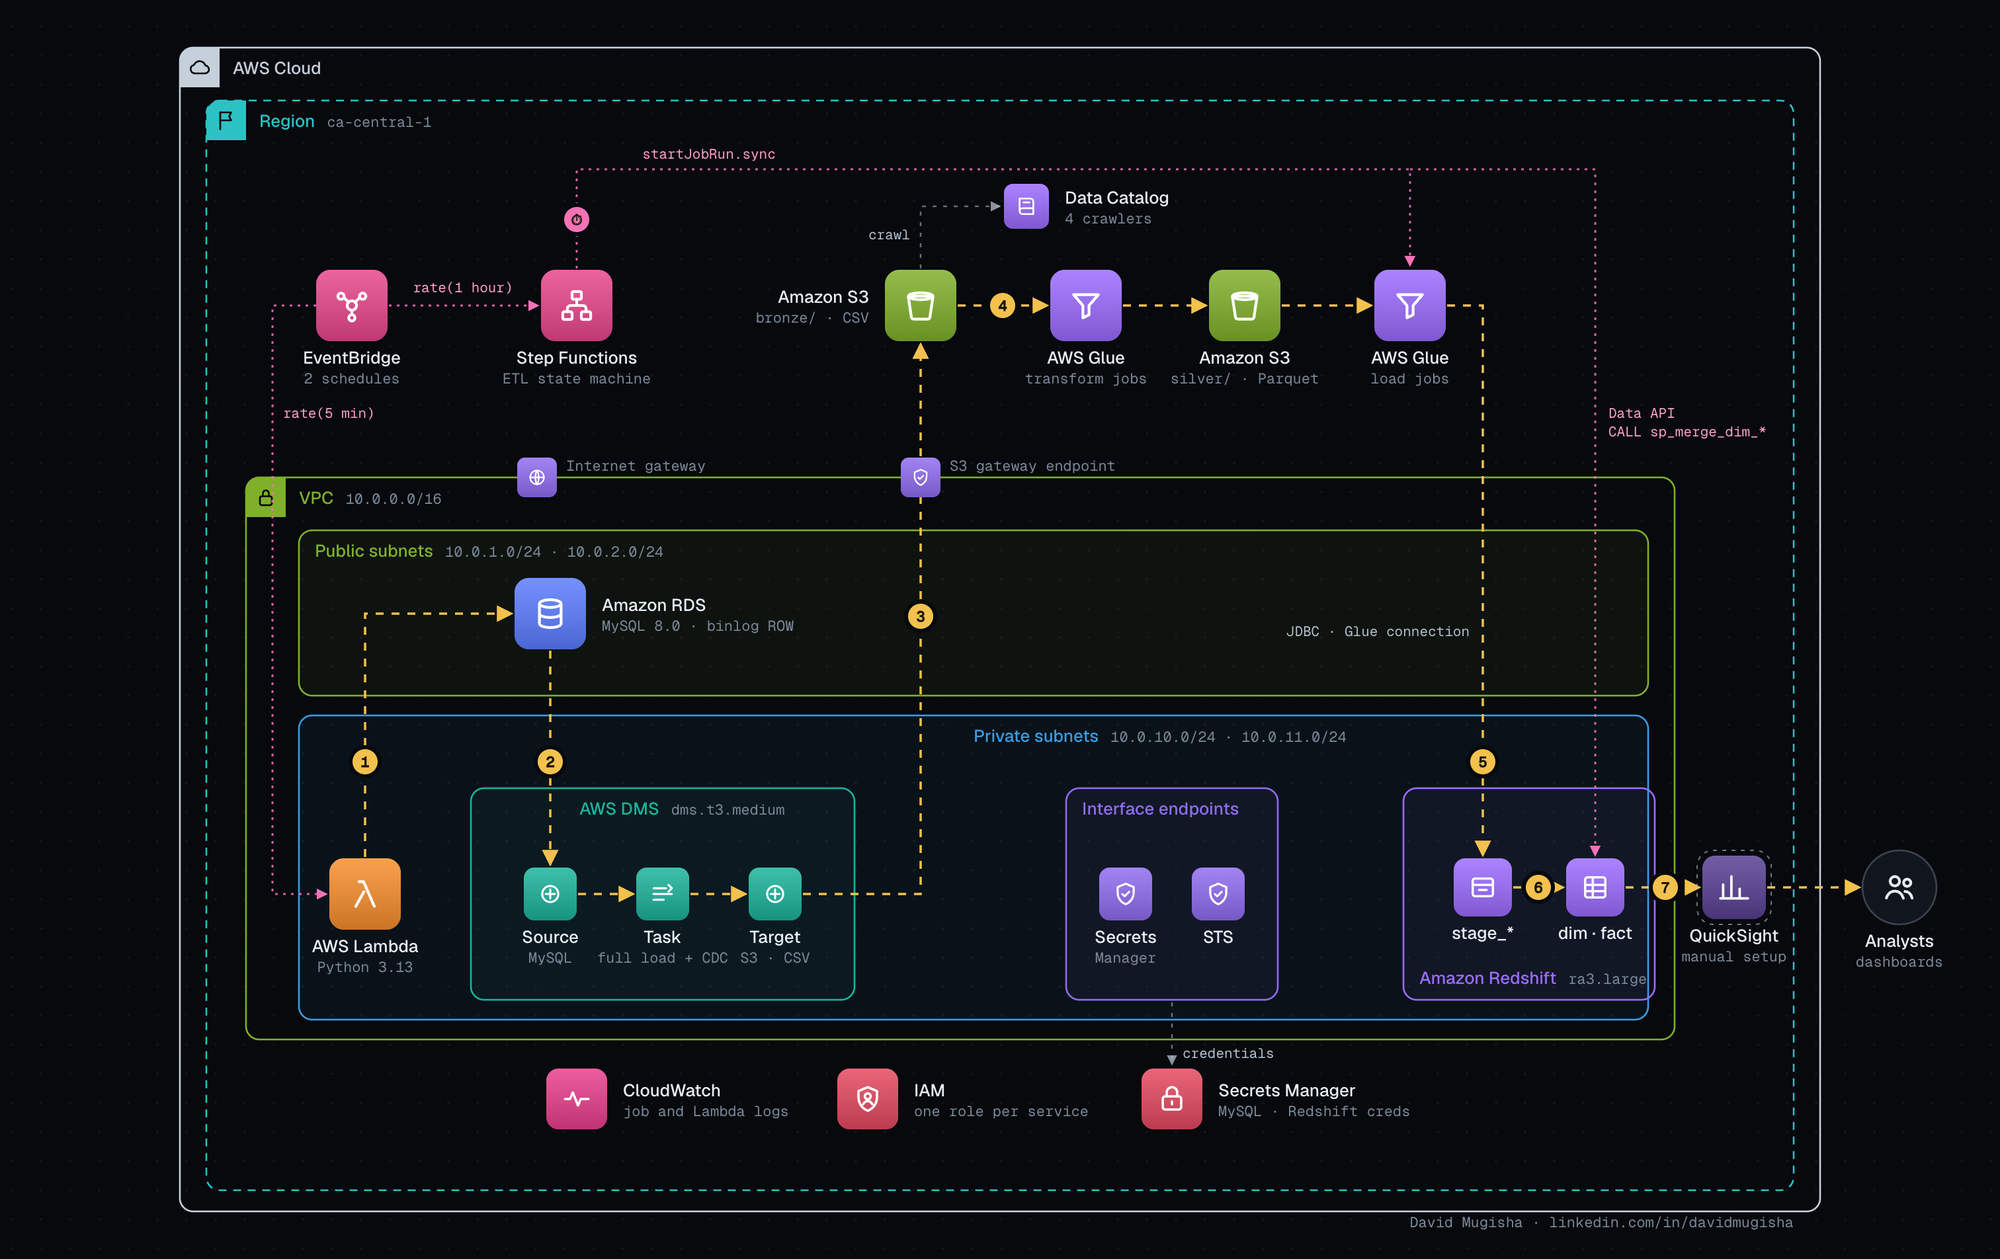
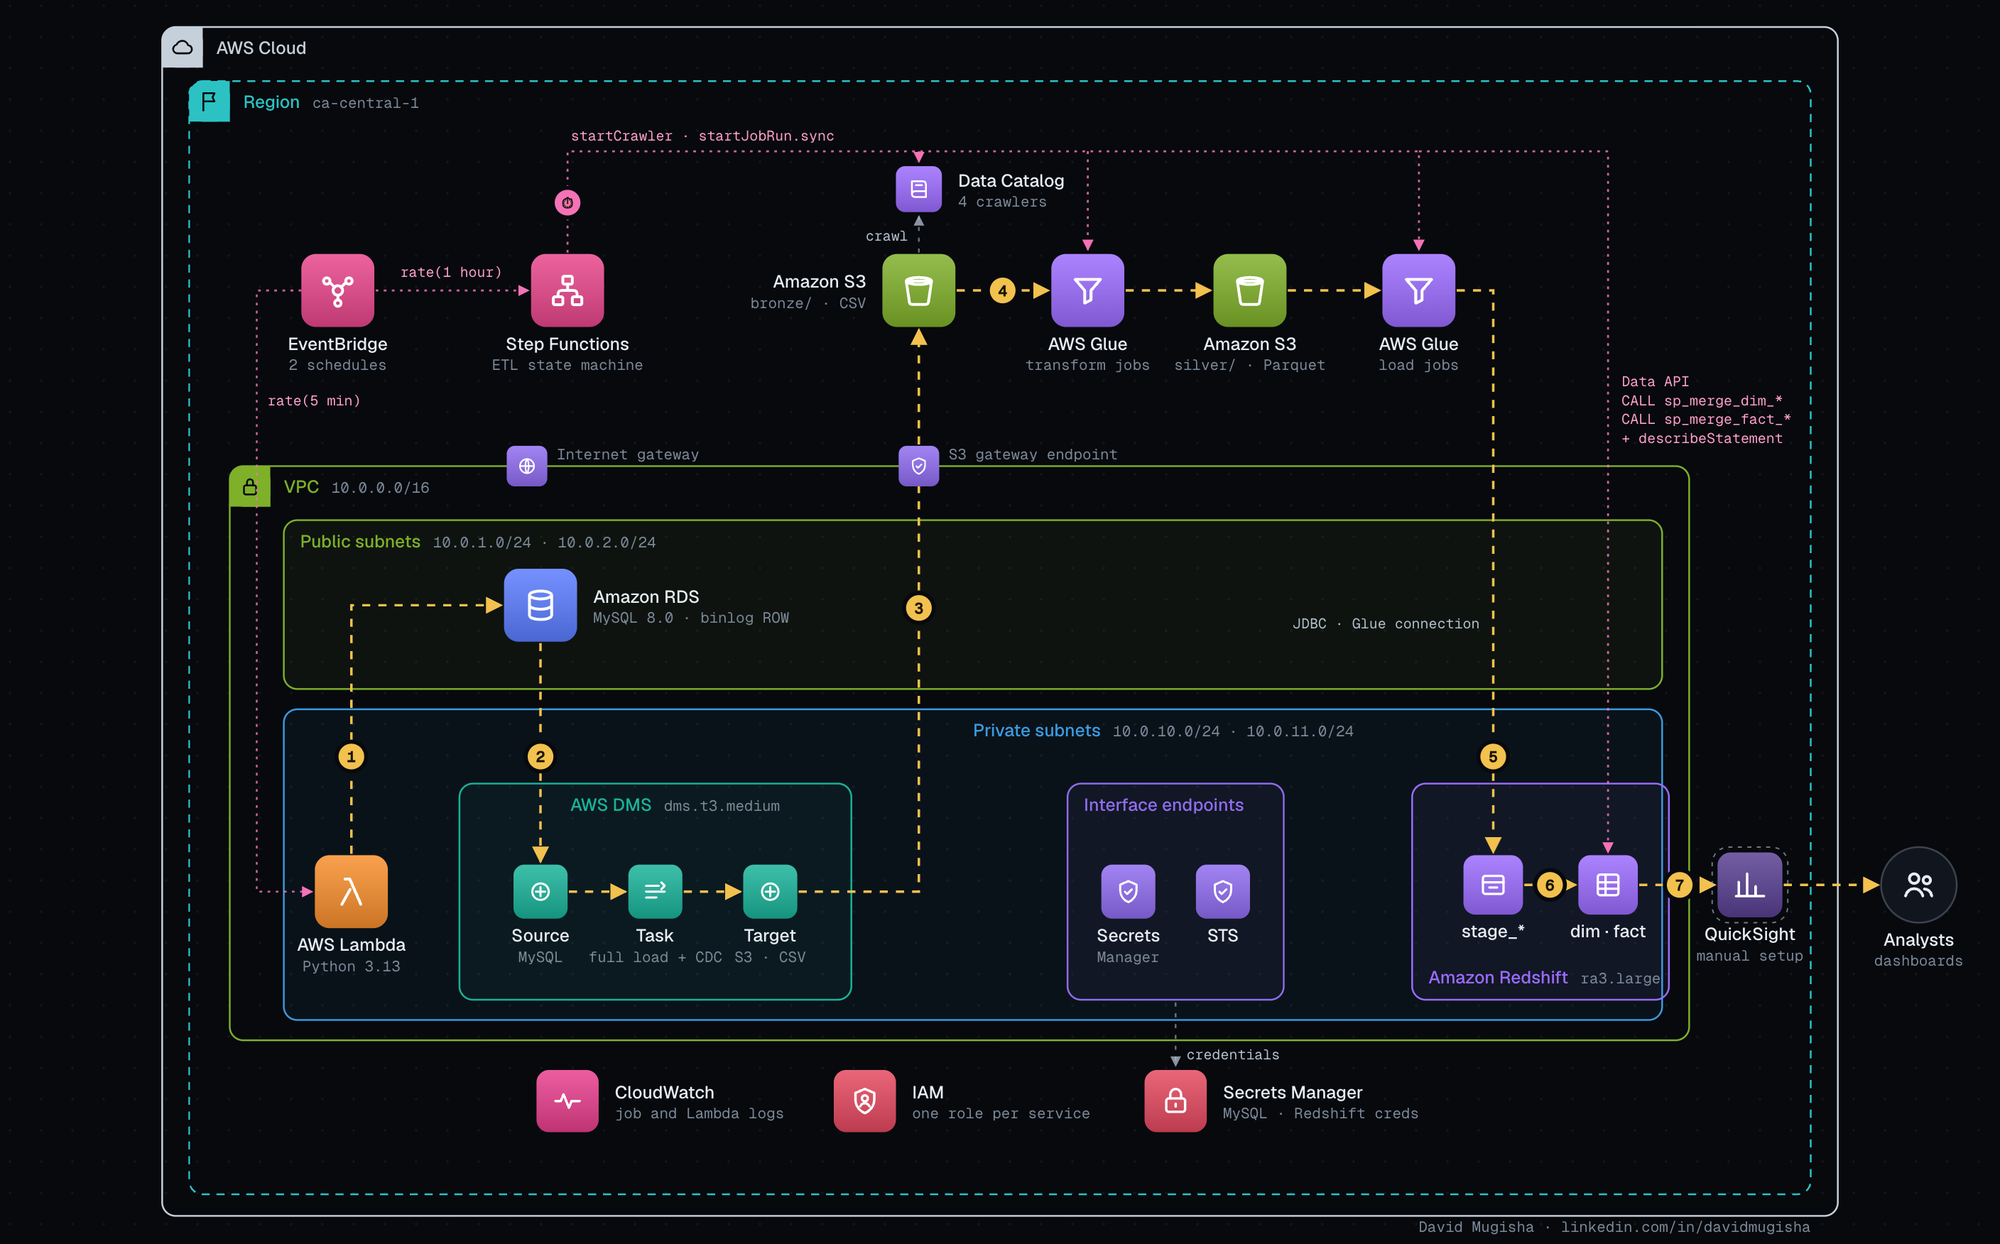
docs: show the crawl, transform and fact merge stages in the architecture visuals
The pipeline animation now runs crawlers and the transform jobs before
the loads, merges facts into a new sales.fact_* panel, and labels each
merge as awaited. The AWS diagram shows Step Functions starting the
crawlers and transform jobs and calling the fact procedures. GIF and
PNG renders are regenerated at 2x on a deterministic clock.

diff --git a/docs/architecture/pipeline-animation.html b/docs/architecture/pipeline-animation.html
@@ -222,6 +222,8 @@ svg.wires { position: absolute; inset: 0; width: 100%; height: 100%; pointer-eve
 .mini .r.empty span, .mini .r.empty span:last-child { color: var(--muted); text-align: left; }
 .mini .r.ent.solo { grid-template-columns: auto minmax(0, 1fr); }
 .mini .r.ent.solo span:last-child { color: var(--ink-2); text-align: left; }
+.facts .r b { font: 600 11px var(--font-mono); color: var(--muted); font-variant-numeric: tabular-nums; transition: color .3s; }
+.facts .r b.bump { color: var(--gold); animation: bump .5s var(--ease-out); }
 .mini.hot { transform: translateY(-1px); border-color: color-mix(in oklab, var(--hue, #fff) 70%, #fff); box-shadow: 0 12px 24px -14px color-mix(in oklab, var(--hue, #fff) 80%, transparent); }
 
 /* Bronze file list and gold dimension rows are live */
@@ -317,7 +319,7 @@ svg.wires { position: absolute; inset: 0; width: 100%; height: 100%; pointer-eve
 
 @media (prefers-reduced-motion: reduce) {
   .src, .mini, .cons, .connector .knob, .stage, .app-card, button, .task, .st, .par, .files .r, .dims .r { transition: none; }
-  .counter b.bump, .dims .r.fresh, .task.run::before { animation: none; }
+  .counter b.bump, .facts .r b.bump, .dims .r.fresh, .task.run::before { animation: none; }
 }
 </style>
 
@@ -439,6 +441,11 @@ svg.wires { position: absolute; inset: 0; width: 100%; height: 100%; pointer-eve
             <div id="dim-rows"></div>
           </div>
           <div class="counter"><span>versions <b id="n-ver">0</b></span><span>active <b id="n-act">0</b></span></div>
+          <div class="mini facts" id="gold-fact">
+            <div class="t">sales.fact_* <i>upsert</i></div>
+            <div class="r ent"><i style="background:var(--e-orders)"></i><span>fact_orders</span><b id="n-ford">0</b></div>
+            <div class="r ent"><i style="background:var(--e-details)"></i><span>fact_order_details</span><b id="n-fdet">0</b></div>
+          </div>
           <div class="foot">Analytics ready</div>
         </article>
 
@@ -458,21 +465,25 @@ svg.wires { position: absolute; inset: 0; width: 100%; height: 100%; pointer-eve
         <div class="flow">
           <div class="st" id="o-eb"><small>EventBridge</small><b>rate(1 hour)</b></div>
           <i class="arrow"></i>
+          <div class="st" id="o-crawl"><small>Run_Crawlers</small><b>4 crawlers</b></div>
+          <i class="arrow"></i>
+          <div class="st" id="o-xform"><small>Parallel_Transform</small><b>4 Glue jobs</b></div>
+          <i class="arrow"></i>
           <div class="par" id="o-dims">
             <small>Parallel_Load_Dimensions</small>
-            <div class="lane"><span class="task" id="o-cust-load">Glue load <span class="k">customer</span></span><span class="sep">→</span><span class="task" id="o-cust-sp">SP_Merge_Customer</span></div>
-            <div class="lane"><span class="task" id="o-prod-load">Glue load <span class="k">product</span></span><span class="sep">→</span><span class="task" id="o-prod-sp">SP_Merge_Product</span></div>
+            <div class="lane"><span class="task" id="o-cust-load">Load <span class="k">customer</span></span><span class="sep">→</span><span class="task" id="o-cust-sp">Merge</span></div>
+            <div class="lane"><span class="task" id="o-prod-load">Load <span class="k">product</span></span><span class="sep">→</span><span class="task" id="o-prod-sp">Merge</span></div>
           </div>
           <i class="arrow"></i>
           <div class="par" id="o-facts">
             <small>Parallel_Load_Facts</small>
-            <div class="lane"><span class="task" id="o-ord">Glue_Load_Orders</span></div>
-            <div class="lane"><span class="task" id="o-det">Glue_Load_OrderDetails</span></div>
+            <div class="lane"><span class="task" id="o-ord">Load <span class="k">orders</span></span><span class="sep">→</span><span class="task" id="o-ord-sp">Merge</span></div>
+            <div class="lane"><span class="task" id="o-det">Load <span class="k">details</span></span><span class="sep">→</span><span class="task" id="o-det-sp">Merge</span></div>
           </div>
           <i class="arrow"></i>
           <div class="st" id="o-ok"><small>Step Functions</small><b>Succeed</b></div>
         </div>
-        <p class="note">Dimensions merge first so facts always find their customer and product.</p>
+        <p class="note">Crawlers refresh the catalog, then dimensions merge first so facts always find their customer and product. Each merge is awaited.</p>
       </section>
 
       <a class="credit" href="https://www.linkedin.com/in/davidmugisha/" target="_blank" rel="noopener">David Mugisha · linkedin.com/in/davidmugisha</a>
@@ -523,6 +534,11 @@ svg.wires { position: absolute; inset: 0; width: 100%; height: 100%; pointer-eve
     return `M${a.x},${a.y} C${a.x + dx},${a.y} ${b.x - dx},${b.y} ${b.x},${b.y}`;
   };
   const line = (a, b) => `M${a.x},${a.y} L${b.x},${b.y}`;
+  // Down the left edge of the gold column, past the dimension panel, into the fact panel
+  const elbow = (a, b, out = 7, r = 5) => {
+    const x = Math.min(a.x, b.x) - out;
+    return `M${a.x},${a.y} L${x + r},${a.y} Q${x},${a.y} ${x},${a.y + r} L${x},${b.y - r} Q${x},${b.y} ${x + r},${b.y} L${b.x},${b.y}`;
+  };
 
   // Wires. The left half streams all day; the right half only moves on the hourly run (dashed).
   const DEFS = {
@@ -540,19 +556,20 @@ svg.wires { position: absolute; inset: 0; width: 100%; height: 100%; pointer-eve
     "silver-load":  () => curve(pt("silver-schema", "right"), knob("glue-l", "left")),
     "load-stage":   () => curve(knob("glue-l", "right"), pt("gold-stage", "left")),
     "stage-dim":    () => line(pt("gold-stage", "bottom"), pt("gold-dim", "top")),
+    "stage-fact":   () => elbow(pt("gold-stage", "left", 0.82), pt("gold-fact", "left")),
     "dim-cons0":    () => curve(pt("gold-dim", "right", 0.3), pt("cons-0", "left")),
     "dim-cons1":    () => curve(pt("gold-dim", "right", 0.5), pt("cons-1", "left")),
     "dim-cons2":    () => curve(pt("gold-dim", "right", 0.7), pt("cons-2", "left")),
   };
-  const BATCH = new Set(["bronze-glue", "glue-silver", "silver-load", "load-stage", "stage-dim"]);
+  const BATCH = new Set(["bronze-glue", "glue-silver", "silver-load", "load-stage", "stage-dim", "stage-fact"]);
   const PULSE = {
     "app-customer": "src-customer", "app-product": "src-product", "app-orders": "src-orders", "app-details": "src-details",
     "customer-dms": "dms", "product-dms": "dms", "orders-dms": "dms", "details-dms": "dms",
     "dms-bronze": "bronze-files", "bronze-glue": "glue-t", "glue-silver": "silver-schema",
-    "silver-load": "glue-l", "load-stage": "gold-stage", "stage-dim": "gold-dim",
+    "silver-load": "glue-l", "load-stage": "gold-stage", "stage-dim": "gold-dim", "stage-fact": "gold-fact",
     "dim-cons0": "cons-0", "dim-cons1": "cons-1", "dim-cons2": "cons-2",
   };
-  const STAGE_OF = { "bronze-files": "stage-bronze", "silver-schema": "stage-silver", "gold-stage": "stage-gold", "gold-dim": "stage-gold" };
+  const STAGE_OF = { "bronze-files": "stage-bronze", "silver-schema": "stage-silver", "gold-stage": "stage-gold", "gold-dim": "stage-gold", "gold-fact": "stage-gold" };
 
   const paths = {};
   const wireLayer = document.createElementNS(NS, "g");
@@ -659,10 +676,12 @@ svg.wires { position: absolute; inset: 0; width: 100%; height: 100%; pointer-eve
   }
 
   // ---------- Model: bronze files, gold dimension rows, orchestration ----------
-  let files = [], dims = [], fileSeq = 0;
+  let files = [], dims = [], fileSeq = 0, facts = { orders: 0, details: 0 };
   const fileRows = $("file-rows"), dimRows = $("dim-rows");
   const nWait = $("n-wait"), nRead = $("n-read"), nVer = $("n-ver"), nAct = $("n-act");
   const FILE_SLOTS = 4, DIM_SLOTS = 3;
+  const factNum = { orders: $("n-ford"), details: $("n-fdet") };
+  function renderFacts() { for (const e of Object.keys(facts)) setNum(factNum[e], facts[e]); }
 
   function setNum(el, v) {
     if (el.textContent === String(v)) return;
@@ -711,7 +730,7 @@ svg.wires { position: absolute; inset: 0; width: 100%; height: 100%; pointer-eve
     renderDims(animate ? dims.length - 1 : -1);
   }
 
-  const ORCH = ["o-eb", "o-dims", "o-cust-load", "o-cust-sp", "o-prod-load", "o-prod-sp", "o-facts", "o-ord", "o-det", "o-ok"];
+  const ORCH = ["o-eb", "o-crawl", "o-xform", "o-dims", "o-cust-load", "o-cust-sp", "o-prod-load", "o-prod-sp", "o-facts", "o-ord", "o-ord-sp", "o-det", "o-det-sp", "o-ok"];
   const setO = (id, state) => { const el = $(id); el.classList.remove("run", "done"); if (state) el.classList.add(state); };
   const resetOrch = () => ORCH.forEach((id) => setO(id, null));
 
@@ -724,14 +743,22 @@ svg.wires { position: absolute; inset: 0; width: 100%; height: 100%; pointer-eve
 
     const pending = files.filter((f) => !f.read).map((f) => f.entity);
     const has = (e) => pending.includes(e);
+    const count = (e) => pending.filter((p) => p === e).length;
+
+    // Crawlers refresh the bronze tables in the Data Catalog
+    setO("o-crawl", "run"); pulse("bronze-files");
+    await wait(0.8, tk); if (tk.cancelled) return;
+    setO("o-crawl", "done");
 
     // Bronze -> silver: transform jobs pick up only unread files (bookmarks)
+    setO("o-xform", "run");
     await Promise.all(pending.map(async (e, k) => {
       await wait(k * 0.28, tk);
       await travel(["bronze-glue", "glue-silver"], COLORS[e], tk);
     }));
     if (tk.cancelled) return;
     readFiles();
+    setO("o-xform", "done");
 
     // Dimensions in parallel: Glue load into stage_, then the SCD2 merge procedure
     setO("o-dims", "run");
@@ -753,17 +780,22 @@ svg.wires { position: absolute; inset: 0; width: 100%; height: 100%; pointer-eve
     setO("o-dims", "done");
     await wait(0.4, tk);
 
-    // Facts in parallel, only after dimensions succeed
+    // Facts in parallel, only after dimensions succeed: Glue load into stage_, then the upsert procedure
     setO("o-facts", "run");
-    const fact = async (e, id, delay) => {
-      setO(id, "run");
+    const fact = async (e, load, sp, delay) => {
+      setO(load, "run");
       await wait(delay, tk);
       if (has(e)) await travel(["silver-load", "load-stage"], COLORS[e], tk);
       else await wait(1.1, tk);
       if (tk.cancelled) return;
-      setO(id, "done");
+      setO(load, "done"); setO(sp, "run");
+      if (has(e)) await travel(["stage-fact"], COLORS[e], tk);
+      else await wait(0.4, tk);
+      if (tk.cancelled) return;
+      facts[e] += count(e); renderFacts();
+      setO(sp, "done");
     };
-    await Promise.all([fact("orders", "o-ord", 0), fact("details", "o-det", 0.3)]);
+    await Promise.all([fact("orders", "o-ord", "o-ord-sp", 0), fact("details", "o-det", "o-det-sp", 0.3)]);
     if (tk.cancelled) return;
     setO("o-facts", "done"); setO("o-ok", "done");
 
@@ -771,7 +803,8 @@ svg.wires { position: absolute; inset: 0; width: 100%; height: 100%; pointer-eve
   }
   function applyBatch(merge) {
     resetOrch();
-    readFiles(); merge(false);
+    for (const f of files) if (!f.read && f.entity in facts) facts[f.entity] += 1;
+    readFiles(); merge(false); renderFacts();
     ORCH.forEach((id) => setO(id, "done"));
   }
 
@@ -808,7 +841,7 @@ svg.wires { position: absolute; inset: 0; width: 100%; height: 100%; pointer-eve
     {
       op: "run", label: "hourly run", dot: "orch",
       what: "The hourly run promotes the waiting files from bronze to gold",
-      how: "EventBridge rate(1 hour) → Step Functions → Glue → stage_* → CALL sales.sp_merge_dim_*()",
+      how: "EventBridge rate(1 hour) → crawlers → Glue → stage_* → CALL sales.sp_merge_dim_*(), sp_merge_fact_*()",
       run: (tk) => runBatch(tk, mergeFirst),
       apply: () => applyBatch(mergeFirst),
     },
@@ -847,9 +880,9 @@ svg.wires { position: absolute; inset: 0; width: 100%; height: 100%; pointer-eve
 
   // State right before step i: replay the instant effect of every earlier step
   function stateBefore(i) {
-    files = []; dims = []; fileSeq = 0; resetOrch();
+    files = []; dims = []; fileSeq = 0; facts = { orders: 0, details: 0 }; resetOrch();
     for (let j = 0; j < i; j++) STEPS[j].apply();
-    renderFiles(); renderDims();
+    renderFiles(); renderDims(); renderFacts();
   }
 
   let token = { cancelled: true };
@@ -887,7 +920,7 @@ svg.wires { position: absolute; inset: 0; width: 100%; height: 100%; pointer-eve
   if (reduced) { btnPlay.hidden = true; $("btn-restart").hidden = true; }
 
   // ---------- Boot ----------
-  renderFiles(); renderDims();
+  renderFiles(); renderDims(); renderFacts();
   const boot = () => { layout(); requestAnimationFrame(frame); ambient(); start(0); };
   (document.fonts && document.fonts.ready ? document.fonts.ready : Promise.resolve()).then(boot);
   let rt; addEventListener("resize", () => { clearTimeout(rt); rt = setTimeout(layout, 120); });

diff --git a/docs/architecture/aws-architecture.html b/docs/architecture/aws-architecture.html
@@ -106,7 +106,7 @@ a:hover .credit { fill: var(--ink); text-decoration: underline; }
 
   <div class="scroller">
     <svg class="arch" id="arch" viewBox="0 0 1480 920" role="img" aria-labelledby="arch-title">
-      <title id="arch-title">AWS deployment: Lambda writes to RDS MySQL, DMS replicates changes to S3 bronze, Glue transforms them to S3 silver and loads Redshift, Step Functions on an hourly EventBridge schedule orchestrates the loads and merges, and QuickSight reads the warehouse. Secrets Manager, CloudWatch and IAM support every service.</title>
+      <title id="arch-title">AWS deployment: Lambda writes to RDS MySQL, DMS replicates changes to S3 bronze, Glue transforms them to S3 silver and loads Redshift, Step Functions on an hourly EventBridge schedule runs the crawlers, transforms, loads and awaited merges, and QuickSight reads the warehouse. Secrets Manager, CloudWatch and IAM support every service.</title>
     </svg>
   </div>
 
@@ -116,9 +116,9 @@ a:hover .credit { fill: var(--ink); text-decoration: underline; }
     <li><span class="n">3</span><span>DMS writes each change as CSV, with an <code>Op</code> column, under <code>bronze/</code> through the S3 gateway endpoint.</span></li>
     <li><span class="n">4</span><span><b>Glue</b> transform jobs read new bronze files (bookmarks) and write hashed Parquet under <code>silver/</code>.</span></li>
     <li><span class="n">5</span><span>Glue load jobs copy silver into <code>sales.stage_*</code> tables in <b>Redshift</b> through a Glue connection.</span></li>
-    <li><span class="n">6</span><span>Stored procedures merge staging into SCD Type 2 dimensions: expire the old version, insert the new one.</span></li>
+    <li><span class="n">6</span><span>Stored procedures merge staging into gold: SCD Type 2 dimensions (expire the old version, insert the new one), then fact upserts.</span></li>
     <li><span class="n">7</span><span><b>QuickSight</b> reads the gold tables for the sales dashboard.</span></li>
-    <li><span class="n c">⏱</span><span><b>EventBridge</b> starts the <b>Step Functions</b> state machine every hour: dimensions load and merge in parallel, then facts.</span></li>
+    <li><span class="n c">⏱</span><span><b>EventBridge</b> starts the <b>Step Functions</b> state machine every hour: crawlers, then transforms, then dimensions load and merge in parallel, then facts. Each merge is awaited.</span></li>
   </ol>
   <div class="key">
     <span><svg viewBox="0 0 34 8"><path d="M0 4h34" class="flow"/></svg>Data flow</span>
@@ -239,7 +239,7 @@ a:hover .credit { fill: var(--ink); text-decoration: underline; }
 
   // Regional: lake and ETL
   node("bronze", { x: 680, y: 215, icon: "bucket", color: v("storage"), label: "Amazon S3", sub: "bronze/ · CSV", side: "left" });
-  node("catalog", { x: 760, y: 140, icon: "catalog", color: v("analytics"), label: "Data Catalog", sub: "4 crawlers", size: 34, side: "right" });
+  node("catalog", { x: 680, y: 140, icon: "catalog", color: v("analytics"), label: "Data Catalog", sub: "4 crawlers", size: 34, side: "right" });
   node("glue-t", { x: 805, y: 215, icon: "glue", color: v("analytics"), label: "AWS Glue", sub: "transform jobs" });
   node("silver", { x: 925, y: 215, icon: "bucket", color: v("storage"), label: "Amazon S3", sub: "silver/ · Parquet" });
   node("glue-l", { x: 1050, y: 215, icon: "glue", color: v("analytics"), label: "AWS Glue", sub: "load jobs" });
@@ -299,13 +299,17 @@ a:hover .credit { fill: var(--ink); text-decoration: underline; }
   // Orchestration and schedules
   edge([[223, 215], [190, 215], [190, 660], [231, 660]], "ctrl", "rate(5 min)", 198, 300, "start");
   edge([[278, 215], [391, 215]], "ctrl", "rate(1 hour)", 334, 205);
-  edge([[420, 187], [420, 112], [1050, 112], [1050, 185]], "ctrl", "startJobRun.sync", 520, 104);
-  edge([[1050, 112], [1190, 112], [1190, 631]], "ctrl", "Data API", 1200, 300, "start");
-  text(1200, 314, "CALL sp_merge_dim_*", "t-edge ctrl-label", "start", layerEdges);
+  edge([[420, 187], [420, 112], [1050, 112], [1050, 185]], "ctrl", "startCrawler · startJobRun.sync", 520, 104);
+  edge([[680, 112], [680, 120]], "ctrl");
+  edge([[805, 112], [805, 185]], "ctrl");
+  edge([[1050, 112], [1190, 112], [1190, 631]], "ctrl", "Data API", 1200, 286, "start");
+  text(1200, 300, "CALL sp_merge_dim_*", "t-edge ctrl-label", "start", layerEdges);
+  text(1200, 314, "CALL sp_merge_fact_*", "t-edge ctrl-label", "start", layerEdges);
+  text(1200, 328, "+ describeStatement", "t-edge ctrl-label", "start", layerEdges);
   badge("⏱", 420, 150, "#f472b6");
 
   // Catalog and credentials
-  edge([[680, 187], [680, 140], [740, 140]], "support", "crawl", 672, 165, "end");
+  edge([[680, 187], [680, 160]], "support", "crawl", 672, 178, "end");
   edge([[870, 742], [870, 789]], "support", "credentials", 878, 784, "start");
 
   // ---------- Credit ----------
